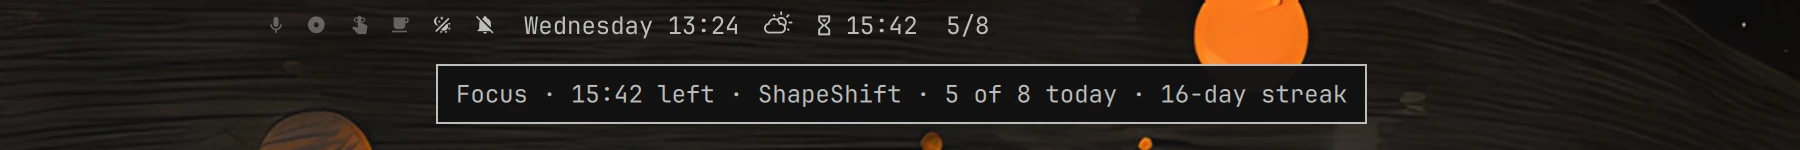
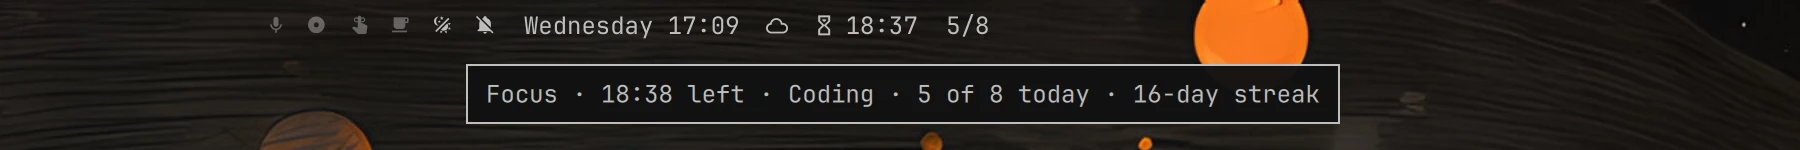
Rename to Omato
Plugin ID is now io.github.0xapotheosis.omato and the default data dir is
~/.local/share/omato. Screenshots retaken with the new name and a generic
demo label.

diff --git a/Service.qml b/Service.qml
@@ -5,7 +5,7 @@ import "TimerModel.js" as Model
 import "Stats.js" as Stats
 import "ServiceGuard.js" as Guard
 
-// Owner of all Omodoro state. A `service` is mounted once per session, a
+// Owner of all Omato state. A `service` is mounted once per session, a
 // `bar-widget` once per monitor, so the timer lives here and the widgets
 // reach it through `bar.shell.serviceFor(pluginId)`.
 //
@@ -20,7 +20,7 @@ Item {
 
   readonly property string pluginId: Model.PLUGIN_ID
   readonly property string home: Quickshell.env("HOME")
-  readonly property string stateDir: home + "/.local/state/omodoro"
+  readonly property string stateDir: home + "/.local/state/omato"
 
   // ---- settings, inline on the bar entry in shell.json. Read from the file:
   //      the shell's barConfig snapshot only refreshes on plugin rescans.
@@ -271,9 +271,9 @@ Item {
     if (!releaseDnd && !message) return
     Quickshell.execDetached(["bash", "-c",
       "[ -n \"$1\" ] && omarchy-shell -q notifications setDnd off >/dev/null; "
-      + "[ -n \"$2\" ] && notify-send -a Omodoro \"$2\" \"$3\"; "
+      + "[ -n \"$2\" ] && notify-send -a Omato \"$2\" \"$3\"; "
       + "[ -n \"$4\" ] && exec pw-play \"$4\"; true",
-      "omodoro", releaseDnd ? "1" : "", message ? message.summary : "", message ? message.body : "",
+      "omato", releaseDnd ? "1" : "", message ? message.summary : "", message ? message.body : "",
       message && config.sound ? config.soundFile : ""])
   }
 

diff --git a/Window.qml b/Window.qml
@@ -7,8 +7,8 @@ import "components"
 
 // Stats and settings, kept out of the bar panel, and the breathing lead-in
 // before focus. Summoned by the shell:
-//   omarchy-shell shell summon io.github.0xapotheosis.omodoro '{"tab":"stats"}'
-//   omarchy-shell shell summon io.github.0xapotheosis.omodoro '{"mode":"breathe"}'
+//   omarchy-shell shell summon io.github.0xapotheosis.omato '{"tab":"stats"}'
+//   omarchy-shell shell summon io.github.0xapotheosis.omato '{"mode":"breathe"}'
 Item {
   id: root
 
@@ -81,7 +81,7 @@ Item {
     visible: root.opened
     anchors { top: true; bottom: true; left: true; right: true }
     color: "transparent"
-    WlrLayershell.namespace: "omodoro"
+    WlrLayershell.namespace: "omato"
     WlrLayershell.layer: WlrLayer.Overlay
     WlrLayershell.keyboardFocus: WlrKeyboardFocus.Exclusive
     exclusionMode: ExclusionMode.Ignore

diff --git a/HistoryStore.qml b/HistoryStore.qml
@@ -85,7 +85,7 @@ Item {
 
   function writeExports() {
     var stamp = Qt.formatDateTime(new Date(), "yyyy-MM-dd-HHmmss")
-    var base = dir + "/exports/omodoro-" + stamp
+    var base = dir + "/exports/omato-" + stamp
     exportJson.path = base + ".json"
     exportJson.setText(JSON.stringify({ exportedAt: new Date().toISOString(), sessions: sessions }, null, 2) + "\n")
     exportCsv.path = base + ".csv"
@@ -101,7 +101,7 @@ Item {
     moveProc.command = ["bash", "-c",
       "set -e; mkdir -p \"$2\"; for f in \"$1\"/sessions-*.jsonl; do [ -e \"$f\" ] || continue; "
       + "t=\"$2/${f##*/}\"; if [ -e \"$t\" ]; then cat \"$f\" >> \"$t\"; rm \"$f\"; else mv \"$f\" \"$t\"; fi; done",
-      "omodoro-move", dir, newDir]
+      "omato-move", dir, newDir]
     moveProc.running = true
     return true
   }

diff --git a/BarWidget.qml b/BarWidget.qml
@@ -3,7 +3,7 @@ import qs.Commons
 import qs.Ui
 import "TimerModel.js" as Model
 
-// Omodoro bar chip: phase glyph + countdown (+ today's goal progress).
+// Omato bar chip: phase glyph + countdown (+ today's goal progress).
 // The service owns the timer; this widget renders it and hosts the panel.
 // Left click opens the panel, middle click starts/pauses, right click skips.
 BarWidget {
@@ -80,7 +80,7 @@ BarWidget {
       : (root.idle ? Qt.darker(root.baseForeground, 1.55) : root.baseForeground)
     horizontalMargin: 8.75
     verticalPadding: 8.75
-    tooltipText: root.service ? root.service.tooltip : "Omodoro"
+    tooltipText: root.service ? root.service.tooltip : "Omato"
 
     onPressed: function(b) {
       if (!root.service) return

diff --git a/TimerModel.js b/TimerModel.js
@@ -3,7 +3,7 @@
 // Pure timer policy and formatting. No Qt objects here.
 
 // Must match manifest.json. Also the IPC target.
-var PLUGIN_ID = "io.github.0xapotheosis.omodoro"
+var PLUGIN_ID = "io.github.0xapotheosis.omato"
 
 var DEFAULTS = {
   focusMinutes: 25,
@@ -18,7 +18,7 @@ var DEFAULTS = {
   dnd: true,
   sound: true,
   soundFile: "/usr/share/sounds/freedesktop/stereo/complete.oga",
-  dataDir: "~/.local/share/omodoro",
+  dataDir: "~/.local/share/omato",
   barMode: "countdown+goal"
 }
 

diff --git a/Panel.qml b/Panel.qml
@@ -148,7 +148,7 @@ Panel {
             id: title
             anchors.left: parent.left
             anchors.verticalCenter: parent.verticalCenter
-            text: "Omodoro"
+            text: "Omato"
             color: root.fg
             font.family: root.fontFamily
             font.pixelSize: Style.font.title

diff --git a/WindowCard.qml b/WindowCard.qml
@@ -44,7 +44,7 @@ BorderSurface {
         id: heading
         anchors.left: parent.left
         anchors.verticalCenter: parent.verticalCenter
-        text: "Omodoro"
+        text: "Omato"
         color: card.foreground
         font.family: card.family
         font.pixelSize: Style.font.title

diff --git a/settings/SettingsView.qml b/settings/SettingsView.qml
@@ -172,7 +172,7 @@ Item {
           id: dirField
           width: parent.width
           text: view.cfg.dataDir || ""
-          placeholderText: "~/Dropbox/Omarchy/omodoro"
+          placeholderText: "~/Dropbox/Omarchy/omato"
           foreground: view.foreground
         }
 

diff --git a/README.md b/README.md
@@ -1,9 +1,9 @@
-# Omodoro
+# Omato
 
 A Pomodoro timer for the Omarchy bar.
 
 <p align="center">
-  <img src="screenshots/panel-focus.webp" width="900" alt="Omodoro timer panel open under the bar chip, mid-focus with a label, goal dots, and a streak">
+  <img src="screenshots/panel-focus.webp" width="900" alt="Omato timer panel open under the bar chip, mid-focus with a label, goal dots, and a streak">
 </p>
 
 The bar chip shows the live countdown: focus, break, paused, or overtime,
@@ -34,7 +34,7 @@ live in their own window, opened from the two icons at the top of the panel.
   focus by label.
 
 <p align="center">
-  <img src="screenshots/stats.webp" width="940" alt="Omodoro stats window with today, 7-day, streak, extra rest, and all-time tiles, daily bar charts, and a year heatmap">
+  <img src="screenshots/stats.webp" width="940" alt="Omato stats window with today, 7-day, streak, extra rest, and all-time tiles, daily bar charts, and a year heatmap">
 </p>
 
 More in [`screenshots/`](screenshots): [bar chip](screenshots/bar.webp),
@@ -54,7 +54,7 @@ conflicted copies, because no two machines ever write the same file.
 **Settings → History** can move the existing files to a new folder, and
 **Export JSON + CSV** writes a merged snapshot to `<dataDir>/exports/`.
 
-The running timer itself (`~/.local/state/omodoro/timer.json`) stays
+The running timer itself (`~/.local/state/omato/timer.json`) stays
 local. It stores end times rather than counting ticks, so the timer
 survives plugin reloads, shell restarts, and suspend.
 
@@ -66,18 +66,18 @@ survives plugin reloads, shell restarts, and suspend.
 ## Install
 
 ```bash
-omarchy plugin add https://github.com/0xApotheosis/omarchy-omodoro.git --enable
-omarchy bar move io.github.0xapotheosis.omodoro --section center
+omarchy plugin add https://github.com/0xApotheosis/omarchy-omato.git --enable
+omarchy bar move io.github.0xapotheosis.omato --section center
 ```
 
 ## Remove
 
 ```bash
-omarchy plugin remove io.github.0xapotheosis.omodoro
+omarchy plugin remove io.github.0xapotheosis.omato
 ```
 
 This unloads and deletes the plugin. Session history in `dataDir` and the
-timer state in `~/.local/state/omodoro/` are left in place; delete them by
+timer state in `~/.local/state/omato/` are left in place; delete them by
 hand if you don't want to keep them.
 
 ## Settings
@@ -99,7 +99,7 @@ and editable in the Settings tab.
 | `dnd` | `true` | Do Not Disturb while focusing |
 | `sound` | `true` | chime at the end of each phase |
 | `soundFile` | freedesktop `complete.oga` | chime sound |
-| `dataDir` | `~/.local/share/omodoro` | history folder, e.g. `~/Dropbox/Omarchy/omodoro` |
+| `dataDir` | `~/.local/share/omato` | history folder, e.g. `~/Dropbox/Omarchy/omato` |
 | `barMode` | `countdown+goal` | `countdown` or `countdown+goal` |
 
 ## Mouse, keyboard, and IPC
@@ -114,14 +114,14 @@ skips, `a` abandons (press twice), `e` edits the label, `t` opens stats,
 In the window, `1` and `2` switch tabs.
 
 ```bash
-omarchy-shell io.github.0xapotheosis.omodoro toggle          # start / pause / resume / finish overtime
-omarchy-shell io.github.0xapotheosis.omodoro skip
-omarchy-shell io.github.0xapotheosis.omodoro abandon
-omarchy-shell io.github.0xapotheosis.omodoro setLabel "writing"
-omarchy-shell io.github.0xapotheosis.omodoro status          # one-line summary
-omarchy-shell io.github.0xapotheosis.omodoro stats           # open the stats window
-omarchy-shell io.github.0xapotheosis.omodoro settings
-omarchy-shell io.github.0xapotheosis.omodoro exportHistory
+omarchy-shell io.github.0xapotheosis.omato toggle              # start / pause / resume / finish overtime
+omarchy-shell io.github.0xapotheosis.omato skip
+omarchy-shell io.github.0xapotheosis.omato abandon
+omarchy-shell io.github.0xapotheosis.omato setLabel "writing"
+omarchy-shell io.github.0xapotheosis.omato status              # one-line summary
+omarchy-shell io.github.0xapotheosis.omato stats               # open the stats window
+omarchy-shell io.github.0xapotheosis.omato settings
+omarchy-shell io.github.0xapotheosis.omato exportHistory
 ```
 
 These work well bound to Hyprland keys, for example in `~/.config/hypr/bindings.lua`.
